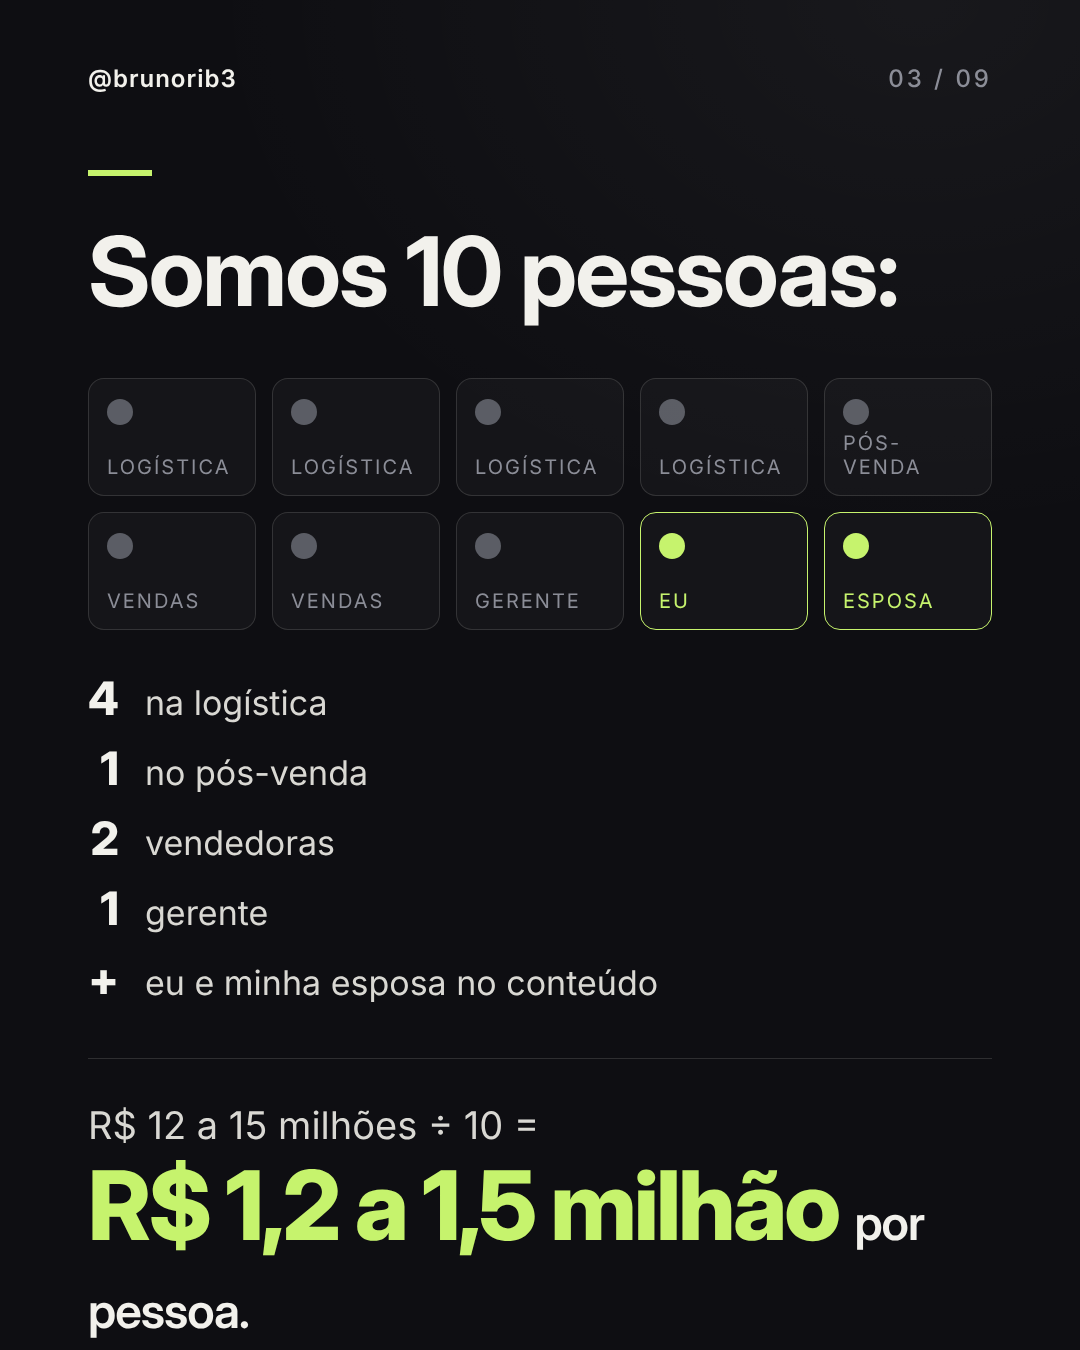
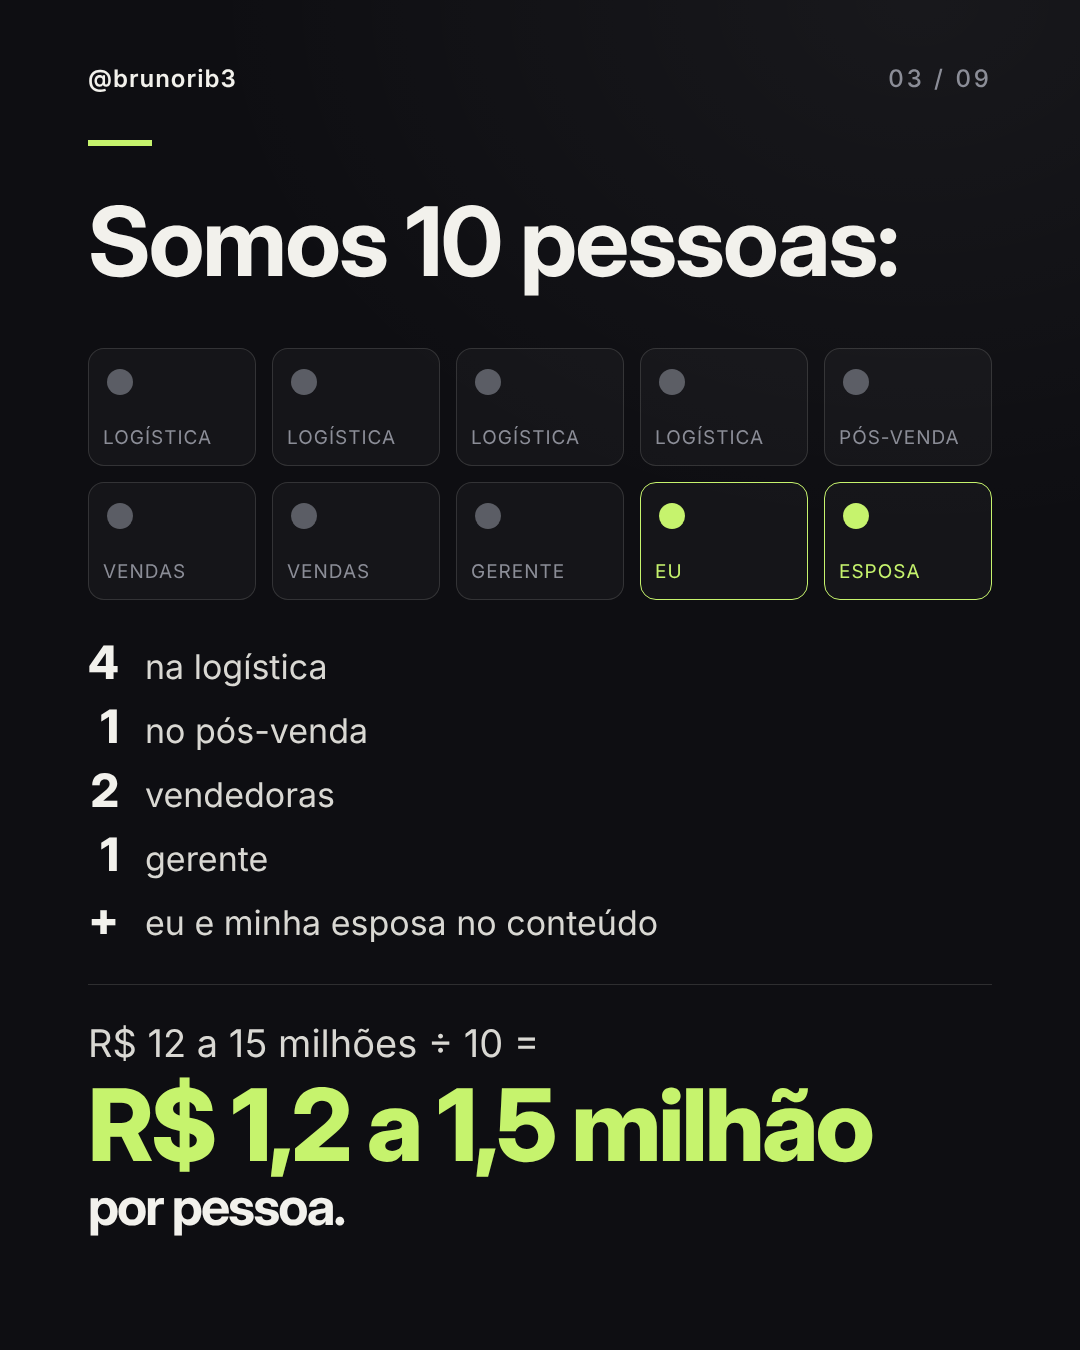
Add P1 carousel slides and capture script
Claude-Session: https://claude.ai/code/session_01BEuZTxtKwCfXHT3HZjw1Q9

Changed region(s): [[0.0611, 0.0933, 0.8556, 0.9333], [0.7639, 0.28, 0.8861, 0.4667], [0.0611, 0.9644, 0.2444, 0.9956]]

diff --git a/conteudo/p1-carrossel/slides.html b/conteudo/p1-carrossel/slides.html
@@ -27,18 +27,18 @@ body{background:#222;font-family:Inter,sans-serif}
 .ph-sub{margin-top:18px;font-size:22px;letter-spacing:3px;text-transform:uppercase;color:var(--mut)}
 /* org */
 .org{display:grid;grid-template-columns:repeat(5,1fr);gap:16px;margin-top:54px}
-.p{height:118px;border-radius:16px;border:1.5px solid var(--line);background:rgba(255,255,255,.03);display:flex;align-items:flex-end;padding:16px 18px;font-size:20px;letter-spacing:2px;text-transform:uppercase;color:var(--mut);position:relative}
+.p{height:118px;border-radius:16px;border:1.5px solid var(--line);background:rgba(255,255,255,.03);display:flex;align-items:flex-end;padding:16px 14px;font-size:19px;letter-spacing:1px;white-space:nowrap;text-transform:uppercase;color:var(--mut);position:relative}
 .p::before{content:"";position:absolute;top:20px;left:18px;width:26px;height:26px;border-radius:50%;background:var(--mut);opacity:.6}
 .p.me{border-color:var(--acc);color:var(--acc)}.p.me::before{background:var(--acc);opacity:1}
-.leg{display:grid;grid-template-columns:auto 1fr;column-gap:26px;row-gap:14px;margin-top:40px;font-size:34px;color:#D9D8D3;align-items:baseline}
+.leg{display:grid;grid-template-columns:auto 1fr;column-gap:26px;row-gap:8px;margin-top:34px;font-size:34px;color:#D9D8D3;align-items:baseline}
 .leg .n{font-family:'Inter Display';font-weight:800;font-size:46px;color:var(--ink);text-align:right}
-.eq{margin-top:52px;padding-top:40px;border-top:1.5px solid var(--line)}
+.eq{margin-top:38px;padding-top:32px;border-top:1.5px solid var(--line)}
 /* calc */
-.calc{margin-top:60px;border:1.5px solid var(--line);border-radius:28px;background:rgba(255,255,255,.03);padding:44px}
+.calc{margin-top:48px;border:1.5px solid var(--line);border-radius:28px;background:rgba(255,255,255,.03);padding:44px}
 .fl{font-size:22px;letter-spacing:3px;text-transform:uppercase;color:var(--mut);margin-bottom:14px}
-.fld{height:108px;border-radius:16px;background:#17171D;border:1.5px solid rgba(242,241,236,.22);display:flex;align-items:center;padding:0 30px;font-family:'Inter Display';font-weight:700;font-size:46px;color:#4A4B53}
+.fld{height:96px;border-radius:16px;background:#17171D;border:1.5px solid rgba(242,241,236,.22);display:flex;align-items:center;padding:0 30px;font-family:'Inter Display';font-weight:700;font-size:46px;color:#4A4B53}
 .fld.res{border-color:var(--acc);color:var(--acc);background:rgba(198,243,109,.06)}
-.op{font-family:'Inter Display';font-weight:300;font-size:64px;color:var(--acc);text-align:center;line-height:1;margin:22px 0}
+.op{font-family:'Inter Display';font-weight:300;font-size:56px;color:var(--acc);text-align:center;line-height:1;margin:14px 0}
 .chips{display:flex;flex-wrap:wrap;gap:14px;margin-top:36px}
 .chip{padding:14px 24px;border:1.5px solid var(--line);border-radius:999px;font-size:24px;color:#D9D8D3}
 .chip i{display:inline-block;width:10px;height:10px;border-radius:50%;background:var(--acc);margin-right:12px;vertical-align:middle;font-style:normal}
@@ -46,7 +46,7 @@ body{background:#222;font-family:Inter,sans-serif}
 
 <!-- 1 · GANCHO -->
 <div class="s" id="s1">
-  <div class="photo" style="right:-150px;bottom:0;width:760px;height:1000px;background-image:url(img/bruno.jpg);background-position:center top;-webkit-mask-image:radial-gradient(ellipse 62% 70% at 50% 42%,#000 50%,transparent 100%);opacity:.95"></div>
+  <div class="photo" style="right:-150px;bottom:0;width:760px;height:1000px;background-image:url(img/bruno.jpg);background-position:center top;filter:brightness(.88) contrast(1.06);-webkit-mask-image:linear-gradient(to bottom,transparent 0%,#000 22%,#000 70%,transparent 98%),linear-gradient(to right,transparent 0%,#000 30%);-webkit-mask-composite:source-in;mask-composite:intersect"></div>
   <div class="hd"><b>@brunorib3</b><span>01 / 09</span></div>
   <div class="wrap" style="top:200px">
     <div class="bar"></div>
@@ -62,22 +62,21 @@ body{background:#222;font-family:Inter,sans-serif}
 
 <!-- 2 · PROVA -->
 <div class="s" id="s2">
-  <div class="photo" style="left:0;top:0;width:1080px;height:760px;background-image:url(img/placas.jpg);background-position:center 38%;-webkit-mask-image:linear-gradient(to bottom,#000 55%,transparent 100%)"></div>
+  <div class="photo" style="left:60px;top:-300px;width:960px;height:1200px;background-image:url(img/placas.jpg);background-size:960px auto;background-position:center top;-webkit-mask-image:linear-gradient(to bottom,transparent 22%,#000 34%,#000 82%,transparent 100%),linear-gradient(to right,transparent 0%,#000 12%,#000 88%,transparent 100%);-webkit-mask-composite:source-in;mask-composite:intersect"></div>
   <div class="hd"><b>@brunorib3</b><span>02 / 09</span></div>
-  <div class="wrap" style="top:600px">
-    <div class="big acc" style="font-size:150px;letter-spacing:-5px">R$ 30 milhões</div>
-    <p class="b" style="margin-top:16px;font-size:42px"><strong>faturados com e-commerce desde 2022.</strong></p>
-    <div style="height:1.5px;background:var(--line);margin:40px 0"></div>
-    <div class="h" style="font-size:64px">R$ 12 a 15 milhões <span class="mut" style="font-weight:500">no último ano.</span></div>
-    <p class="b" style="margin-top:36px;font-size:34px">É faturamento. A margem líquida fica entre <strong class="acc">20% e 25%.</strong></p>
+  <div class="wrap" style="top:845px">
+    <div class="big acc" style="font-size:128px;letter-spacing:-4px;white-space:nowrap">R$ 30 milhões</div>
+    <p class="b" style="margin-top:14px;font-size:40px"><strong>faturados com e-commerce desde 2022.</strong></p>
+    <div style="height:1.5px;background:var(--line);margin:30px 0"></div>
+    <div class="h" style="font-size:56px">R$ 12 a 15 milhões <span class="mut" style="font-weight:500">no último ano.</span></div>
+    <p class="b" style="margin-top:22px;font-size:32px">É faturamento. A margem líquida fica entre <strong style="color:var(--acc)">20% e 25%.</strong></p>
   </div>
-  <div class="ft"><span>Faturamento, não lucro</span><span></span></div>
 </div>
 
 <!-- 3 · EQUIPE -->
 <div class="s" id="s3">
   <div class="hd"><b>@brunorib3</b><span>03 / 09</span></div>
-  <div class="wrap" style="top:170px">
+  <div class="wrap" style="top:140px">
     <div class="bar"></div>
     <div class="h" style="font-size:96px">Somos 10 pessoas:</div>
     <div class="org">
@@ -93,7 +92,7 @@ body{background:#222;font-family:Inter,sans-serif}
     </div>
     <div class="eq">
       <p class="b" style="font-size:38px">R$ 12 a 15 milhões ÷ 10 =</p>
-      <div class="big acc" style="font-size:96px;letter-spacing:-3px;margin-top:10px">R$ 1,2 a 1,5 milhão <span style="font-size:48px;letter-spacing:-1px;color:var(--ink);font-weight:600">por pessoa.</span></div>
+      <div class="big acc" style="font-size:100px;letter-spacing:-3px;margin-top:10px">R$ 1,2 a 1,5 milhão</div><div class="h" style="font-size:52px;margin-top:8px">por pessoa.</div>
     </div>
   </div>
 </div>
@@ -103,7 +102,7 @@ body{background:#222;font-family:Inter,sans-serif}
   <div class="hd"><b>@brunorib3</b><span>04 / 09</span></div>
   <div class="wrap" style="top:170px">
     <div class="bar"></div>
-    <div class="h" style="font-size:92px">Faz a conta da sua operação:</div>
+    <div class="h" style="font-size:88px">Faz a conta da sua operação:</div>
     <p class="b" style="margin-top:28px;font-size:38px">faturamento dos últimos 12 meses ÷ pessoas na equipe, contando você.</p>
     <div class="calc">
       <div class="fl">Faturamento · últimos 12 meses</div>
@@ -116,8 +115,7 @@ body{background:#222;font-family:Inter,sans-serif}
       <div class="fld res">R$</div>
     </div>
   </div>
-  <div class="ft"><span>Salva e preenche</span><span></span></div>
-</div>
+  </div>
 
 <!-- 5 · TESE (frase a confirmar com o Bruno) -->
 <div class="s" id="s5">
@@ -160,13 +158,13 @@ body{background:#222;font-family:Inter,sans-serif}
   <div class="hd"><b>@brunorib3</b><span>08 / 09</span></div>
   <div class="wrap" style="top:50%;transform:translateY(-50%)">
     <div class="bar"></div>
-    <div class="h" style="font-size:78px;line-height:1.12">Se a sua loja já fatura <span class="acc">R$ 50 mil por mês ou mais</span> e tudo ainda passa por você, é com você que eu vou conversar aqui.</div>
+    <div class="h" style="font-size:78px;line-height:1.12">Se a sua loja já fatura <span class="acc"><span style="white-space:nowrap">R$ 50 mil</span> por mês ou mais</span> e tudo ainda passa por você, é com você que eu vou conversar aqui.</div>
   </div>
 </div>
 
 <!-- 9 · CTA -->
 <div class="s" id="s9">
-  <div class="photo" style="left:50%;transform:translateX(-50%);top:90px;width:900px;height:1180px;background-image:url(img/bruno.jpg);background-position:center top;-webkit-mask-image:linear-gradient(to bottom,#000 40%,transparent 82%),radial-gradient(ellipse 60% 80% at 50% 40%,#000 55%,transparent 100%);-webkit-mask-composite:source-in;mask-composite:intersect"></div>
+  <div class="photo" style="left:50%;transform:translateX(-50%);top:90px;width:900px;height:1180px;background-image:url(img/bruno.jpg);background-position:center top;filter:brightness(.88) contrast(1.06);-webkit-mask-image:linear-gradient(to bottom,transparent 0%,#000 26%,#000 45%,transparent 80%),linear-gradient(to right,transparent 0%,#000 32%,#000 68%,transparent 100%);-webkit-mask-composite:source-in;mask-composite:intersect"></div>
   <div class="hd"><b>@brunorib3</b><span>09 / 09</span></div>
   <div class="wrap" style="bottom:150px">
     <div class="h" style="font-size:80px">Salva para fazer a conta com o seu número.</div>

diff --git a/conteudo/p1-carrossel/cap.js b/conteudo/p1-carrossel/cap.js
@@ -1,0 +1,8 @@
+const {chromium}=require('/opt/node22/lib/node_modules/playwright');
+(async()=>{
+ const dir='/home/user/Main/conteudo/p1-carrossel';
+ const b=await chromium.launch(); const p=await b.newPage({viewport:{width:1080,height:1350}});
+ await p.goto('file://'+dir+'/slides.html'); await p.evaluate(()=>document.fonts.ready); await p.waitForTimeout(400);
+ for(let i=1;i<=9;i++){ await p.locator('#s'+i).screenshot({path:`${dir}/slide-0${i}.png`}); }
+ await b.close();
+})();
